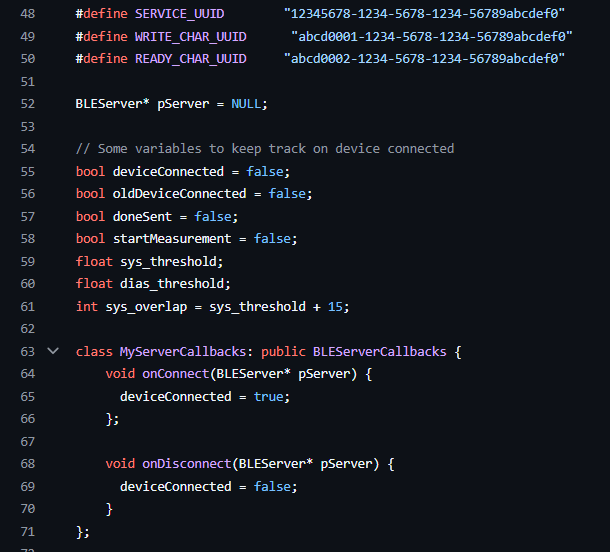
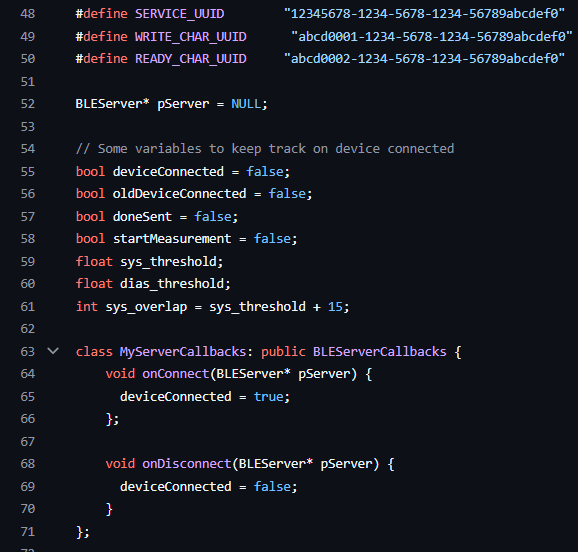
Trim the last of the background off the code screenshot
Takes 32px off the right, which is 5.2% rather than the 10% asked for.
The text reaches x=571 and a 10% cut lands at 549, which would have taken
the closing quotes off the UUID strings. This removes everything that was
left of the background and stops there.

diff --git a/index.html b/index.html
@@ -13,7 +13,7 @@
 <link rel="apple-touch-icon" href="apple-touch-icon.png">
 <link rel="manifest" href="site.webmanifest">
 <meta name="theme-color" content="#1533cc">
-<link rel="stylesheet" href="style.css?v=21">
+<link rel="stylesheet" href="style.css?v=22">
 </head>
 <body>
 
@@ -77,23 +77,23 @@
         </div>
         <div class="band-media reveal mosaic-4 has-span">
           <figure class="fit span-2">
-            <img src="images/cad-microneedle-array.png?v=21" alt="Microneedle array in CAD: plan view with the needle grid and two diameter callouts, beside an isometric view of the populated array.">
+            <img src="images/cad-microneedle-array.png?v=22" alt="Microneedle array in CAD: plan view with the needle grid and two diameter callouts, beside an isometric view of the populated array.">
             <figcaption>Microneedle array in CAD — plan view dimensioned, populated array beside it.</figcaption>
           </figure>
           <figure class="wide">
-            <img src="images/cad-stent-lattice.png?v=21" alt="CAD model of a stent: a tubular diamond lattice of struts, shown isometrically.">
+            <img src="images/cad-stent-lattice.png?v=22" alt="CAD model of a stent: a tubular diamond lattice of struts, shown isometrically.">
             <figcaption>Stent lattice.</figcaption>
           </figure>
           <figure class="wide">
-            <img src="images/map-device-in-hand.jpg?v=21" alt="A finished MAP device held between two gloved fingertips, a few millimetres across.">
+            <img src="images/map-device-in-hand.jpg?v=22" alt="A finished MAP device held between two gloved fingertips, a few millimetres across.">
             <figcaption>A finished device, a few millimetres across.</figcaption>
           </figure>
           <figure class="wide">
-            <img src="images/cam-toolpaths.jpg?v=21" alt="CAM software showing concentric toolpaths generated around two circular pockets, with the work origin and axes marked at the corner of the stock.">
+            <img src="images/cam-toolpaths.jpg?v=22" alt="CAM software showing concentric toolpaths generated around two circular pockets, with the work origin and axes marked at the corner of the stock.">
             <figcaption>Toolpaths set up before cutting.</figcaption>
           </figure>
           <figure>
-            <img src="images/cnc-machined-part.jpg?v=21" alt="A machined aluminium ring off the mill, concentric tool marks across the face and two small slots cut into the bore.">
+            <img src="images/cnc-machined-part.jpg?v=22" alt="A machined aluminium ring off the mill, concentric tool marks across the face and two small slots cut into the bore.">
             <figcaption>A sample part off the mill.</figcaption>
           </figure>
         </div>
@@ -109,19 +109,19 @@
         </div>
         <div class="band-media reveal mosaic-4">
           <figure>
-            <img src="images/chamber-cast-part.jpg?v=21" alt="A cast transparent chamber part held in a gloved hand, the moulded step and its textured edge catching the light.">
+            <img src="images/chamber-cast-part.jpg?v=22" alt="A cast transparent chamber part held in a gloved hand, the moulded step and its textured edge catching the light.">
             <figcaption>A cast part straight out of the mould.</figcaption>
           </figure>
           <figure>
-            <img src="images/chamber-fabricated.jpg?v=21" alt="A fabricated microfluidic chamber layer held in a gloved hand, the channel network visible in the cast polymer.">
+            <img src="images/chamber-fabricated.jpg?v=22" alt="A fabricated microfluidic chamber layer held in a gloved hand, the channel network visible in the cast polymer.">
             <figcaption>A fabricated microfluidic layer.</figcaption>
           </figure>
           <figure>
-            <img src="images/map-array-micrograph.jpg?v=21" alt="Micrograph of the moulded microlens array, close-packed plano-convex lenses filling the frame with a scale bar at the lower edge.">
+            <img src="images/map-array-micrograph.jpg?v=22" alt="Micrograph of the moulded microlens array, close-packed plano-convex lenses filling the frame with a scale bar at the lower edge.">
             <figcaption>The moulded microlens array.</figcaption>
           </figure>
           <figure>
-            <img src="images/map-invitro-plate.jpg?v=21" alt="Three MAP devices illuminating wells of a six-well culture plate from beneath, each showing a three-by-three array of emitters through the plate base.">
+            <img src="images/map-invitro-plate.jpg?v=22" alt="Three MAP devices illuminating wells of a six-well culture plate from beneath, each showing a three-by-three array of emitters through the plate base.">
             <figcaption>Finished devices delivering red light into a six-well plate.</figcaption>
           </figure>
         </div>
@@ -137,7 +137,7 @@
         </div>
         <div class="band-media reveal media-single media-plus">
           <figure>
-            <img src="images/map-led-source.jpg?v=21" alt="The LED source array running, individual emitters visible through the lens optic against saturated red illumination.">
+            <img src="images/map-led-source.jpg?v=22" alt="The LED source array running, individual emitters visible through the lens optic against saturated red illumination.">
             <figcaption>The source array under drive, where the thermal and current measurements are taken.</figcaption>
           </figure>
         </div>
@@ -152,7 +152,7 @@
         </div>
         <div class="band-media reveal media-single">
           <figure class="tall">
-            <img src="images/cleanroom-suited.jpg?v=21" alt="Gowned in a full cleanroom suit, hood and overshoes, standing in the fabrication bay between benches of microscopes and process equipment.">
+            <img src="images/cleanroom-suited.jpg?v=22" alt="Gowned in a full cleanroom suit, hood and overshoes, standing in the fabrication bay between benches of microscopes and process equipment.">
             <figcaption>Gowned up in the cleanroom at USF.</figcaption>
           </figure>
         </div>
@@ -167,7 +167,7 @@
         </div>
         <div class="band-media reveal">
           <figure class="fit">
-            <img src="images/chamber-comsol-flow.png?v=21" alt="COMSOL simulation showing velocity magnitude on a slice plane through the chip, with the tissue region outlined at the centre.">
+            <img src="images/chamber-comsol-flow.png?v=22" alt="COMSOL simulation showing velocity magnitude on a slice plane through the chip, with the tissue region outlined at the centre.">
             <figcaption>Chip flow test in COMSOL.</figcaption>
           </figure>
         </div>
@@ -182,7 +182,7 @@
         </div>
         <div class="band-media reveal media-wide">
           <figure class="wide">
-            <img src="images/map-poster.jpg?v=21" alt="Holding the IEEE MEMS 2026 poster, titled Microneedle-Mediated Adaptive Phototherapy (MAP) Wound Patch with Microlenses.">
+            <img src="images/map-poster.jpg?v=22" alt="Holding the IEEE MEMS 2026 poster, titled Microneedle-Mediated Adaptive Phototherapy (MAP) Wound Patch with Microlenses.">
             <figcaption>The IEEE MEMS 2026 poster.</figcaption>
           </figure>
         </div>
@@ -212,15 +212,15 @@
         </div>
         <div class="band-media reveal mosaic-4 has-span">
           <figure class="fit span-2">
-            <img src="images/bp-ble-architecture.png?v=21" alt="System flow titled BLE and GUI: the BP cuff sends its pressure value over Bluetooth Low Energy to the user PC, where the GUI processes the values, computes a dose and duration from the systolic pressure, and asks the clinician to confirm; on confirmation a second BLE link sends the rate to the IV pump, which administers the dose.">
+            <img src="images/bp-ble-architecture.png?v=22" alt="System flow titled BLE and GUI: the BP cuff sends its pressure value over Bluetooth Low Energy to the user PC, where the GUI processes the values, computes a dose and duration from the systolic pressure, and asks the clinician to confirm; on confirmation a second BLE link sends the rate to the IV pump, which administers the dose.">
             <figcaption>The loop end to end — cuff to PC over BLE, a dose the clinician confirms, then PC to pump.</figcaption>
           </figure>
           <figure class="tall">
-            <img src="images/bp-code.png?v=21" alt="ESP32 firmware in an editor: the BLE service and characteristic UUIDs defined as constants, state flags for connection and measurement, systolic and diastolic thresholds, and a BLEServerCallbacks class with onConnect and onDisconnect setting the connected flag.">
+            <img src="images/bp-code.png?v=22" alt="ESP32 firmware in an editor: the BLE service and characteristic UUIDs defined as constants, state flags for connection and measurement, systolic and diastolic thresholds, and a BLEServerCallbacks class with onConnect and onDisconnect setting the connected flag.">
             <figcaption>The BLE server on the ESP32 — service and characteristic UUIDs, and the connect and disconnect callbacks.</figcaption>
           </figure>
           <figure class="tall">
-            <img src="images/bp-clinician-app.png?v=21" alt="The clinician application: authorization options for logging in or creating an account, then the measured blood pressure of 107.3 over 66.2 and heart rate of 56, a suggested nicardipine dose of 6 mg per hour, an editable rate field, and an Administer button.">
+            <img src="images/bp-clinician-app.png?v=22" alt="The clinician application: authorization options for logging in or creating an account, then the measured blood pressure of 107.3 over 66.2 and heart rate of 56, a suggested nicardipine dose of 6 mg per hour, an editable rate field, and an Administer button.">
             <figcaption>The clinician application. The suggested dose is editable, and nothing is delivered without an explicit Administer.</figcaption>
           </figure>
         </div>
@@ -237,19 +237,19 @@
         </div>
         <div class="band-media reveal mosaic-4">
           <figure class="tall">
-            <img src="images/bp-pump-wiring-diagram.png?v=21" alt="Annotated wiring diagram of the pump module: a 24 volt wall supply feeding a buck converter down to 5 volts, an ESP32 Wroom and a MODBUS RS485 chip on a prototyping board, a motor driver running the peristaltic pump, and a micro-servo.">
+            <img src="images/bp-pump-wiring-diagram.png?v=22" alt="Annotated wiring diagram of the pump module: a 24 volt wall supply feeding a buck converter down to 5 volts, an ESP32 Wroom and a MODBUS RS485 chip on a prototyping board, a motor driver running the peristaltic pump, and a micro-servo.">
             <figcaption>Pump module — 24 V in, buck to 5 V, ESP32 driving the motor over RS485.</figcaption>
           </figure>
           <figure class="tall">
-            <img src="images/bp-cuff-wiring-diagram.png?v=21" alt="Annotated wiring diagram of the cuff module: a 7.5 volt wall mount feeding a buck converter to 5 volts, an ESP32 Wroom driving an H-bridge that runs an air pump and a solenoid valve, with a pressure sensor tapped into the cuff line.">
+            <img src="images/bp-cuff-wiring-diagram.png?v=22" alt="Annotated wiring diagram of the cuff module: a 7.5 volt wall mount feeding a buck converter to 5 volts, an ESP32 Wroom driving an H-bridge that runs an air pump and a solenoid valve, with a pressure sensor tapped into the cuff line.">
             <figcaption>Cuff module — air pump and solenoid valve off an H-bridge, pressure sensor on the cuff line.</figcaption>
           </figure>
           <figure>
-            <img src="images/bp-pump-enclosure-wiring.jpg?v=21" alt="Inside the pump enclosure: a microcontroller board on a standoff rail above a bank of colour-coded terminal blocks, with looms running down to the components below.">
+            <img src="images/bp-pump-enclosure-wiring.jpg?v=22" alt="Inside the pump enclosure: a microcontroller board on a standoff rail above a bank of colour-coded terminal blocks, with looms running down to the components below.">
             <figcaption>The pump enclosure, wired.</figcaption>
           </figure>
           <figure>
-            <img src="images/bp-cuff-enclosure-internals.png?v=21" alt="Inside the printed cuff enclosure: a motor driver board and an ESP32 on a prototyping board wired to a solenoid valve and a diaphragm air pump seated in printed brackets.">
+            <img src="images/bp-cuff-enclosure-internals.png?v=22" alt="Inside the printed cuff enclosure: a motor driver board and an ESP32 on a prototyping board wired to a solenoid valve and a diaphragm air pump seated in printed brackets.">
             <figcaption>The cuff enclosure — driver, ESP32, solenoid valve and air pump.</figcaption>
           </figure>
         </div>
@@ -266,10 +266,10 @@
         </div>
         <div class="band-media reveal mosaic-4">
           <figure class="fit">
-            <img src="images/bp-pressure-decay.png?v=21" alt="Measured cuff pressure decaying from about 155 to 50 mmHg over roughly nine seconds, with small oscillometric pulses visible on the curve.">
+            <img src="images/bp-pressure-decay.png?v=22" alt="Measured cuff pressure decaying from about 155 to 50 mmHg over roughly nine seconds, with small oscillometric pulses visible on the curve.">
           </figure>
           <figure class="fit">
-            <img src="images/bp-oscillometric.png?v=21" alt="The extracted oscillometric pulse envelope with detected peaks marked, and horizontal thresholds for the systolic and diastolic ratios.">
+            <img src="images/bp-oscillometric.png?v=22" alt="The extracted oscillometric pulse envelope with detected peaks marked, and horizontal thresholds for the systolic and diastolic ratios.">
           </figure>
         </div>
       </div>
@@ -301,15 +301,15 @@
         </div>
         <div class="band-media reveal mosaic-4">
           <figure class="fit sq">
-            <img src="images/cad-pump-exploded.png?v=21" alt="The pump drawn as two parts side by side: the housing with its tubing channel cut away, and the four-roller head on its shaft with the tubing wrapped around it.">
+            <img src="images/cad-pump-exploded.png?v=22" alt="The pump drawn as two parts side by side: the housing with its tubing channel cut away, and the four-roller head on its shaft with the tubing wrapped around it.">
             <figcaption>Initial design idea.</figcaption>
           </figure>
           <figure class="sq">
-            <img src="images/bp-system-pole.png?v=21" alt="The system on the pole seen from further back: an IV bag hung above the printed monitoring enclosure, the pump module below it, and lines running down to the bench.">
+            <img src="images/bp-system-pole.png?v=22" alt="The system on the pole seen from further back: an IV bag hung above the printed monitoring enclosure, the pump module below it, and lines running down to the bench.">
             <figcaption>Both printed enclosures mounted on a standard IV pole.</figcaption>
           </figure>
           <figure>
-            <img src="images/bp-cuff-on-arm.png?v=21" alt="The non-invasive cuff fitted on an upper arm, tubing running to the pole-mounted monitoring enclosure.">
+            <img src="images/bp-cuff-on-arm.png?v=22" alt="The non-invasive cuff fitted on an upper arm, tubing running to the pole-mounted monitoring enclosure.">
             <figcaption>The cuff fitted for a measurement.</figcaption>
           </figure>
         </div>
@@ -338,7 +338,7 @@
         </div>
         <div class="band-media reveal media-full">
           <figure class="wide full">
-            <img src="images/workshop-room.jpg?v=21" alt="Walking a full room through the sender assembly, with the breadboard wiring diagram projected on screen.">
+            <img src="images/workshop-room.jpg?v=22" alt="Walking a full room through the sender assembly, with the breadboard wiring diagram projected on screen.">
             <figcaption>Walking the room through the sender assembly.</figcaption>
           </figure>
         </div>
@@ -354,7 +354,7 @@
         </div>
         <div class="band-media reveal media-single">
           <figure>
-            <img src="images/workshop-students-building.jpg?v=21" alt="Wiring a speaker into an ESP32 breadboard build while two attendees look on.">
+            <img src="images/workshop-students-building.jpg?v=22" alt="Wiring a speaker into an ESP32 breadboard build while two attendees look on.">
             <figcaption>Debugging a build mid-session.</figcaption>
           </figure>
         </div>
@@ -370,17 +370,17 @@
         </div>
         <div class="band-media reveal mosaic-4">
           <figure>
-            <img src="images/workshop-cad-teaching.jpg?v=21" alt="Teaching a parametric SOLIDWORKS sketch, dimensioning an extruded profile on the projected screen.">
+            <img src="images/workshop-cad-teaching.jpg?v=22" alt="Teaching a parametric SOLIDWORKS sketch, dimensioning an extruded profile on the projected screen.">
           </figure>
           <figure>
-            <img src="images/workshop-3dprint-lecture.jpg?v=21" alt="Presenting the 3D printing workflow — modelling, export, slicing, and choosing a printer.">
+            <img src="images/workshop-3dprint-lecture.jpg?v=22" alt="Presenting the 3D printing workflow — modelling, export, slicing, and choosing a printer.">
           </figure>
           <figure class="fit">
-            <img src="images/cad-glasses-nose-pad.png?v=21" alt="Dimensioned SOLIDWORKS drawing of a glasses nose pad in millimetres: front, side and bottom views with a shaded isometric.">
+            <img src="images/cad-glasses-nose-pad.png?v=22" alt="Dimensioned SOLIDWORKS drawing of a glasses nose pad in millimetres: front, side and bottom views with a shaded isometric.">
             <figcaption>A worked example for the CAD track — a glasses nose pad, fully dimensioned.</figcaption>
           </figure>
           <figure>
-            <img src="images/3d-printed-cats.jpg?v=21" alt="Three painted Minecraft cat models, printed in one piece and hand painted in white, orange and black.">
+            <img src="images/3d-printed-cats.jpg?v=22" alt="Three painted Minecraft cat models, printed in one piece and hand painted in white, orange and black.">
             <figcaption>Printed Minecraft cats, hand painted — a build students take home.</figcaption>
           </figure>
         </div>
@@ -397,7 +397,7 @@
         </div>
         <div class="band-media reveal media-wide">
           <figure class="wide">
-            <img src="images/workshop-full-room.jpg?v=21" alt="A packed lecture room seen from the back: every seat taken, laptops open along the benches with kit boxes beside them, and a slide projected at the front.">
+            <img src="images/workshop-full-room.jpg?v=22" alt="A packed lecture room seen from the back: every seat taken, laptops open along the benches with kit boxes beside them, and a slide projected at the front.">
             <figcaption>A full room mid-workshop — every seat, every laptop, a kit each.</figcaption>
           </figure>
         </div>
@@ -426,7 +426,7 @@
         </div>
         <div class="band-media reveal media-wide">
           <figure class="wide">
-            <img src="images/cell-culture-micrograph.jpg?v=21" alt="Phase contrast micrograph down the eyepiece: spindle-shaped adherent cells spread across the field at moderate confluence.">
+            <img src="images/cell-culture-micrograph.jpg?v=22" alt="Phase contrast micrograph down the eyepiece: spindle-shaped adherent cells spread across the field at moderate confluence.">
             <figcaption>Cells checked under phase contrast before a run.</figcaption>
           </figure>
         </div>
@@ -444,11 +444,11 @@
         </div>
         <div class="band-media reveal mosaic-4">
           <figure class="tall">
-            <img src="images/rml-study-sketch.jpg?v=21" alt="A page of squared lab notebook headed Rat 1, with a hand-drawn dorsal view of the animal and four numbered treatment sites marked along the flank and hindquarter.">
+            <img src="images/rml-study-sketch.jpg?v=22" alt="A page of squared lab notebook headed Rat 1, with a hand-drawn dorsal view of the animal and four numbered treatment sites marked along the flank and hindquarter.">
             <figcaption>Study notes — treatment sites numbered per animal before a session.</figcaption>
           </figure>
           <figure class="fit">
-            <img src="images/iacuc-certificate.png?v=21" alt="AALAS Learning Library certificate recording completion of the USF IACUC course in rodent aseptic surgical technique, dated June 2024.">
+            <img src="images/iacuc-certificate.png?v=22" alt="AALAS Learning Library certificate recording completion of the USF IACUC course in rodent aseptic surgical technique, dated June 2024.">
             <figcaption>USF IACUC — rodent aseptic surgical technique.</figcaption>
           </figure>
         </div>
@@ -465,7 +465,7 @@
         </div>
         <div class="band-media reveal">
           <figure class="fit">
-            <img src="images/rml-expression-flux.png?v=21" alt="Bioluminescent flux in photons per second on a log axis against time in days, out past 300 days, comparing four electroporation pulse protocols with an injection-only control. The 90 volt 150 millisecond condition holds two to three orders of magnitude above the rest throughout.">
+            <img src="images/rml-expression-flux.png?v=22" alt="Bioluminescent flux in photons per second on a log axis against time in days, out past 300 days, comparing four electroporation pulse protocols with an injection-only control. The 90 volt 150 millisecond condition holds two to three orders of magnitude above the rest throughout.">
             <figcaption>Expression tracked out past 300 days by pulse protocol, from <a href="https://doi.org/10.3390/app142311298">our Applied Sciences paper</a>.</figcaption>
           </figure>
         </div>
@@ -493,15 +493,15 @@
         </div>
         <div class="band-media reveal mosaic-4">
           <figure class="fit">
-            <img src="images/eog-electrode-placement.png?v=21" alt="Diagram of electrode placement on a face: the inverting input above the eyebrow, the non-inverting input beside the outer eye, and the reference on the jaw.">
+            <img src="images/eog-electrode-placement.png?v=22" alt="Diagram of electrode placement on a face: the inverting input above the eyebrow, the non-inverting input beside the outer eye, and the reference on the jaw.">
             <figcaption>Electrode placement — two inputs across the eye, reference on the jaw.</figcaption>
           </figure>
           <figure class="tall">
-            <img src="images/eog-worn.png?v=21" alt="The wearable in use: electrodes taped above and beside one eye, their leads running down to a printed yellow enclosure clipped at the shoulder.">
+            <img src="images/eog-worn.png?v=22" alt="The wearable in use: electrodes taped above and beside one eye, their leads running down to a printed yellow enclosure clipped at the shoulder.">
             <figcaption>The wearable in use, enclosure clipped at the shoulder.</figcaption>
           </figure>
           <figure class="fit">
-            <img src="images/eog-circuit.png?v=21" alt="Circuit layout: an Arduino Uno and a breadboarded instrumentation amplifier stage with gain-setting resistors, a buzzer and an indicator LED, powered from two nine volt batteries.">
+            <img src="images/eog-circuit.png?v=22" alt="Circuit layout: an Arduino Uno and a breadboarded instrumentation amplifier stage with gain-setting resistors, a buzzer and an indicator LED, powered from two nine volt batteries.">
             <figcaption>The acquisition circuit — instrumentation amplifier stage, split supply from two 9 V batteries.</figcaption>
           </figure>
         </div>
@@ -517,11 +517,11 @@
         </div>
         <div class="band-media reveal mosaic-2">
           <figure class="fit">
-            <img src="images/eog-app.jpg?v=21" alt="The companion app: a bar trace of blink events over time, a state readout showing awake, and Bluetooth connect and device selection controls along the bottom.">
+            <img src="images/eog-app.jpg?v=22" alt="The companion app: a bar trace of blink events over time, a state readout showing awake, and Bluetooth connect and device selection controls along the bottom.">
             <figcaption>The companion app — blink events, the awake or drowsy state, and the BLE connection controls.</figcaption>
           </figure>
           <figure class="fit">
-            <img src="images/eog-signal-trace.png?v=21" alt="A sample trace recorded from the wearable: amplitude in ADC units against time in milliseconds, showing four slow rising ramps with sharp falls over two and a half seconds.">
+            <img src="images/eog-signal-trace.png?v=22" alt="A sample trace recorded from the wearable: amplitude in ADC units against time in milliseconds, showing four slow rising ramps with sharp falls over two and a half seconds.">
             <figcaption>A sample trace captured from the device.</figcaption>
           </figure>
         </div>
@@ -537,7 +537,7 @@
         </div>
         <div class="band-media reveal media-wide">
           <figure class="wide">
-            <img src="images/fmmc-symposium-team.jpg?v=21" alt="Six of us standing beside the welcome board at the Florida Medical Device Symposium in St. Petersburg, all wearing lanyards.">
+            <img src="images/fmmc-symposium-team.jpg?v=22" alt="Six of us standing beside the welcome board at the Florida Medical Device Symposium in St. Petersburg, all wearing lanyards.">
             <figcaption>At the Florida Medical Device Symposium, May 2024.</figcaption>
           </figure>
         </div>
@@ -607,7 +607,7 @@
     </ul>
 
     <figure class="figure award-figure">
-      <img src="images/senior-design-team.jpg?v=21" alt="Three of us standing side by side, each holding a framed certificate.">
+      <img src="images/senior-design-team.jpg?v=22" alt="Three of us standing side by side, each holding a framed certificate.">
       <figcaption>With other awarded members, April 2025.</figcaption>
     </figure>
   </section>
